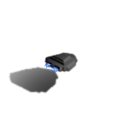
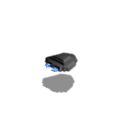
Confirmed that ground wrapping works; updated craft shadows; clicking on entities no longer works.

Changed region(s): [[0.0625, 0.5, 0.5938, 0.75]]

diff --git a/architecture/Grid.py b/architecture/Grid.py
@@ -101,6 +101,8 @@ class InfiniteGrid(Grid):
         #create the font that will draw the coordinates on the squares
         font=pygame.font.Font(pygame.font.get_default_font(),12)
         
+        surface.fill((0,0,0));
+        
         for y in range(miny,maxy):
             for x in range(minx,maxx):
                 
@@ -108,8 +110,17 @@ class InfiniteGrid(Grid):
                 left = int((y+x)/2.0*tileWidth-screenLoc[0])
                 top = int((y-x)/2.0*tileHeight-screenLoc[1])
                 
-                if pygame.Rect((left,top),(tileWidth,tileHeight)).colliderect((0,0),screenSize):
-                     self.grid[x%self.gridSize[0],y%self.gridSize[1]].draw(surface,(left,top))
+                if pygame.Rect((left,top),(tileWidth,tileHeight)).\
+                colliderect((0,0),screenSize):
+                    self.grid[x%self.gridSize[0],y%self.gridSize[1]].\
+                    draw(surface,(left,top))
+                
+                """ #Comment out this line to test grid wrapping
+                if pygame.Rect((left,top),(tileWidth,tileHeight)).\
+                colliderect((0,0),screenSize):
+                    if not(x%self.gridSize[0] == 2 and y%self.gridSize[1] == 2):
+                     self.grid[x%self.gridSize[0],y%self.gridSize[1]].\
+                     draw(surface,(left,top))#"""
 
                 #draw the text to the square
                 #txt=font.render('(%d, %d)'%(x,y),True,(255,0,0))
